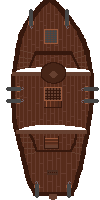
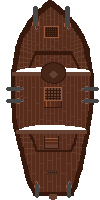
top. nejlepsi projekt

diff --git a/main.py b/main.py
@@ -74,7 +74,11 @@ kompas_rucicka_offset_y = 20
 # Animace moře
 cas_animace = 0
 rychlost_vln = 0.01  # Velmi pomalý pohyb vln
-boj_interval_ms = 350
+boj_interval_ms = 850
+boj_projektil_rychlost = 7
+boj_projektil_velikost = 8
+boj_projektil_barva = (255, 230, 40)
+bojove_projektily = []
 
 clock = pygame.time.Clock()
 
@@ -101,6 +105,14 @@ vyber_ostrovu = [
     {
         "nazev": "magma_ostrov",
         "obrazek": pygame.image.load("magma_ostrov.png"),
+    },
+    {
+        "nazev": "amerika_ostrov",
+        "obrazek": pygame.image.load("amerika_ostrov.png"),
+    },
+    {
+        "nazev": "kraken_ostrov",
+        "obrazek": pygame.image.load("kraken_ostrov.png"),
     }
 ]
 
@@ -148,6 +160,58 @@ aktualni_posatky = aktualni_lod["pocet_posatky"]
 zakoupene_lodi = {"basic_lod": True}
 
 
+def get_cilova_crew_pro_lod(nazev_lodi):
+    if nazev_lodi == "basic_lod":
+        return 5
+    if nazev_lodi == "advanced_ship":
+        return 10
+    if nazev_lodi == "professional_ship":
+        return 15
+    return 5
+
+
+def get_rozsah_crew_pro_lod(nazev_lodi):
+    cilova_crew = get_cilova_crew_pro_lod(nazev_lodi)
+    max_crew = 0
+    if nazev_lodi == "basic_lod":
+        max_crew = 5
+    elif nazev_lodi == "advanced_ship":
+        max_crew = 10
+    elif nazev_lodi == "professional_ship":
+        max_crew = 15
+    limit = max(1, max_crew - 1)
+    return max(1, cilova_crew - 1), limit
+
+
+def vygeneruj_crew_pro_lod(nazev_lodi):
+    crew_min, crew_max = get_rozsah_crew_pro_lod(nazev_lodi)
+    return random.randint(crew_min, crew_max)
+
+
+def synchronizuj_ostrovy_podle_lodi():
+    crew_min, crew_max = get_rozsah_crew_pro_lod(aktualni_lod["nazev"])
+    for ostrov in ostrov_spawn:
+        if ostrov.get("dobyt", False):
+            continue
+        crew = random.randint(crew_min, crew_max)
+        ostrov["posatky"] = crew
+        ostrov["puvodni_posatky"] = crew
+        ostrov["odmena"] = crew * 250
+
+
+def omez_zlato_na_kapacitu():
+    global aktualni_zlato
+    aktualni_zlato = min(aktualni_zlato, maximalni_unosnost_zlata)
+
+
+def pridej_zlato(hodnota):
+    global aktualni_zlato
+    aktualni_zlato = min(aktualni_zlato + hodnota, maximalni_unosnost_zlata)
+
+
+omez_zlato_na_kapacitu()
+
+
 def generate_ostrov_spawn(vyber, total_islands=12, map_w=MAPA_SIRKA, map_h=MAPA_VYSKA, min_dist=rozestup_ostrovu):
     """Generate island spawns with repeated names allowed."""
     spawn = []
@@ -159,14 +223,15 @@ def generate_ostrov_spawn(vyber, total_islands=12, map_w=MAPA_SIRKA, map_h=MAPA_
         name = random.choice(names)
         x = random.randint(-map_w, map_w)
         y = random.randint(-map_h, map_h)
-        crew = random.randint(5, 25)
+        crew = vygeneruj_crew_pro_lod(aktualni_lod["nazev"])
         if all(math.hypot(x - s["x"], y - s["y"]) >= min_dist for s in spawn):
             spawn.append({
                 "x": x,
                 "y": y,
                 "nazev": name,
                 "posatky": crew,
-                "odmena": crew * 100,
+                "puvodni_posatky": crew,
+                "odmena": crew * 250,
                 "dobyt": False,
                 "posledni_utok": 0,
             })
@@ -176,13 +241,14 @@ def generate_ostrov_spawn(vyber, total_islands=12, map_w=MAPA_SIRKA, map_h=MAPA_
         name = random.choice(names)
         x = random.randint(-map_w, map_w)
         y = random.randint(-map_h, map_h)
-        crew = random.randint(5, 25)
+        crew = vygeneruj_crew_pro_lod(aktualni_lod["nazev"])
         spawn.append({
             "x": x,
             "y": y,
             "nazev": name,
             "posatky": crew,
-            "odmena": crew * 100,
+            "puvodni_posatky": crew,
+            "odmena": crew * 250,
             "dobyt": False,
             "posledni_utok": 0,
         })
@@ -205,6 +271,14 @@ def nastav_aktualni_lod(nova_lod):
     maximalni_unosnost_zlata = nova_lod["maximalni_unosnost_zlata"]
     maximalni_pocet_posatky = nova_lod["maximalni_pocet_posatky"]
     aktualni_posatky = nova_lod["pocet_posatky"]
+    omez_zlato_na_kapacitu()
+
+
+def obnov_ostrov_po_porazce(ostrov):
+    puvodni_posatky = ostrov.get("puvodni_posatky", ostrov.get("posatky", 0))
+    ostrov["posatky"] = puvodni_posatky
+    ostrov["dobyt"] = False
+    ostrov["posledni_utok"] = 0
 
 
 def respawn_hrace():
@@ -371,28 +445,43 @@ while hra:
                 okno.blit(text_boj, (stred_x - text_boj.get_width() // 2, stred_y - vyska_elipsy // 2 - 30))
 
                 aktualni_cas = pygame.time.get_ticks()
-                if aktualni_cas - ostrov.get("posledni_utok", 0) >= boj_interval_ms:
+                if crew_count > 0 and aktualni_posatky > 0 and aktualni_cas - ostrov.get("posledni_utok", 0) >= boj_interval_ms:
                     ostrov["posledni_utok"] = aktualni_cas
 
-                    if crew_count > 0 and aktualni_posatky > 0:
-                        novy_crew_ostrova = max(0, crew_count - 1)
-                        nova_moje_posadka = max(0, aktualni_posatky - 1)
-                        ostrov["posatky"] = novy_crew_ostrova
-                        aktualni_posatky = nova_moje_posadka
+                    lod_stred_x = pozice_lode_x + velikost_lode_x / 2
+                    lod_stred_y = pozice_lode_y + velikost_lode_y / 2
+                    cil_x = ostrov["x"]
+                    cil_y = ostrov["y"]
 
-                    if aktualni_posatky <= 0:
-                        respawn_hrace()
-                        break
+                    smer_x = cil_x - lod_stred_x
+                    smer_y = cil_y - lod_stred_y
+                    delka_smeru = math.hypot(smer_x, smer_y)
+                    if delka_smeru > 0:
+                        projektil_vx = smer_x / delka_smeru * boj_projektil_rychlost
+                        projektil_vy = smer_y / delka_smeru * boj_projektil_rychlost
+                        bojove_projektily.append({
+                            "x": lod_stred_x,
+                            "y": lod_stred_y,
+                            "vx": projektil_vx,
+                            "vy": projektil_vy,
+                            "cil": "ostrov",
+                            "ostrov": ostrov,
+                        })
 
-                    if ostrov["posatky"] <= 0 and not ostrov["dobyt"]:
-                        ostrov["dobyt"] = True
-                        ostrov_dobyt = True
-                        barva_elipsy = (0, 255, 0)
-                        aktualni_zlato += ostrov.get("odmena", crew_count * 100)
-                        crew_text = font.render("Crew: 0", True, (180, 220, 180))
-                        okno.blit(crew_text, (stred_x - crew_text.get_width() // 2, stred_y - vyska_elipsy // 2 - 56))
-                        reward_text = font.render(f"+{ostrov.get('odmena', crew_count * 100)} gold", True, (255, 215, 0))
-                        okno.blit(reward_text, (stred_x - reward_text.get_width() // 2, stred_y - vyska_elipsy // 2 - 8))
+                    smer_x = lod_stred_x - cil_x
+                    smer_y = lod_stred_y - cil_y
+                    delka_smeru = math.hypot(smer_x, smer_y)
+                    if delka_smeru > 0:
+                        projektil_vx = smer_x / delka_smeru * boj_projektil_rychlost
+                        projektil_vy = smer_y / delka_smeru * boj_projektil_rychlost
+                        bojove_projektily.append({
+                            "x": cil_x,
+                            "y": cil_y,
+                            "vx": projektil_vx,
+                            "vy": projektil_vy,
+                            "cil": "lod",
+                            "ostrov": ostrov,
+                        })
 
 
         if vzdalenost < polomer_kolize + 50 and nazev == "shop_ostrov":
@@ -403,6 +492,67 @@ while hra:
             if stisknuto[pygame.K_e]:
                 hra = False
                 shop = True
+
+    nove_projektily = []
+    lod_stred_x = pozice_lode_x + velikost_lode_x / 2
+    lod_stred_y = pozice_lode_y + velikost_lode_y / 2
+    konec_boje = False
+
+    for projektil in bojove_projektily:
+        if projektil["cil"] == "lod":
+            smer_x = lod_stred_x - projektil["x"]
+            smer_y = lod_stred_y - projektil["y"]
+            delka_smeru = math.hypot(smer_x, smer_y)
+            if delka_smeru > 0:
+                projektil["vx"] = smer_x / delka_smeru * boj_projektil_rychlost
+                projektil["vy"] = smer_y / delka_smeru * boj_projektil_rychlost
+
+        projektil["x"] += projektil["vx"]
+        projektil["y"] += projektil["vy"]
+
+        if (
+            projektil["x"] < -MAPA_SIRKA - 200
+            or projektil["x"] > MAPA_SIRKA + 200
+            or projektil["y"] < -MAPA_VYSKA - 200
+            or projektil["y"] > MAPA_VYSKA + 200
+        ):
+            continue
+
+        projektil_rect = pygame.Rect(
+            int(projektil["x"] - kamera_x),
+            int(projektil["y"] - kamera_y),
+            boj_projektil_velikost,
+            boj_projektil_velikost,
+        )
+        pygame.draw.rect(okno, boj_projektil_barva, projektil_rect)
+
+        ostrov = projektil["ostrov"]
+        if projektil["cil"] == "ostrov":
+            if ostrov.get("dobyt", False):
+                continue
+            if math.hypot(projektil["x"] - ostrov["x"], projektil["y"] - ostrov["y"]) <= boj_projektil_rychlost + 10:
+                ostrov["posatky"] = max(0, ostrov.get("posatky", 0) - 1)
+                if ostrov["posatky"] <= 0 and not ostrov.get("dobyt", False):
+                    ostrov["dobyt"] = True
+                    ostrov["posledni_utok"] = 0
+                    pridej_zlato(ostrov.get("odmena", ostrov.get("puvodni_posatky", 0) * 250))
+                continue
+
+        if projektil["cil"] == "lod":
+            if math.hypot(projektil["x"] - lod_stred_x, projektil["y"] - lod_stred_y) <= 18:
+                aktualni_posatky = max(0, aktualni_posatky - 1)
+                if aktualni_posatky <= 0:
+                    obnov_ostrov_po_porazce(ostrov)
+                    respawn_hrace()
+                    bojove_projektily = []
+                    nove_projektily = []
+                    konec_boje = True
+                    break
+                continue
+
+        nove_projektily.append(projektil)
+
+    bojove_projektily = nove_projektily
 
 
     if not mapa_neotevrena_puvodni_rect.collidepoint(mys_pozice) and not mapa_otevrena:
@@ -475,6 +625,7 @@ while hra:
             nazev = ostrov["nazev"]
             data_ostrovu = next((o for o in vyber_ostrovu if o["nazev"] == nazev), None)
             if data_ostrovu:
+                ostrov_dobyt = ostrov.get("dobyt", False)
                 # Ostrovy se pohybují podle pozice lodě, hráč zůstává uprostřed mapy
                 mapa_ostrov_x = stred_mapa_x + (ostrov["x"] - pozice_lode_x) * skala_x
                 mapa_ostrov_y = stred_mapa_y + (ostrov["y"] - pozice_lode_y) * skala_y
@@ -487,6 +638,14 @@ while hra:
                 if sirka_ostrova > 0 and vyska_ostrova > 0:
                     obrazek_ostrovu_scaled = pygame.transform.scale(obrazek_ostrovu_mala, (sirka_ostrova, vyska_ostrova))
                     okno.blit(obrazek_ostrovu_scaled, (mapa_ostrov_x - sirka_ostrova // 2, mapa_ostrov_y - vyska_ostrova // 2))
+
+                    if ostrov_dobyt:
+                        fajfka_body = [
+                            (mapa_ostrov_x - 10, mapa_ostrov_y - vyska_ostrova // 2 - 6),
+                            (mapa_ostrov_x - 2, mapa_ostrov_y - vyska_ostrova // 2 + 4),
+                            (mapa_ostrov_x + 12, mapa_ostrov_y - vyska_ostrova // 2 - 12),
+                        ]
+                        pygame.draw.lines(okno, (30, 220, 70), False, fajfka_body, 4)
         
         # Vykreslení šipky hráče v centru mapy
         # Šipka ukazuje stejný směr jako loď v herním okně
@@ -569,7 +728,7 @@ while hra:
             shop_page = "crew"
 
         # Crew shop constants
-        crew_price = 150
+        crew_price = 50
 
         if shop_page == "ships":
             shop_lodi = [lod_informace[1], lod_informace[2]]
@@ -629,8 +788,10 @@ while hra:
                         aktualni_zlato -= lod["cena"]
                         zakoupene_lodi[lod["nazev"]] = True
                         nastav_aktualni_lod(lod)
+                        synchronizuj_ostrovy_podle_lodi()
                     elif zakoupene_lodi.get(lod["nazev"], False):
                         nastav_aktualni_lod(lod)
+                        synchronizuj_ostrovy_podle_lodi()
 
         else:  # crew page
             # Card for crew recruitment